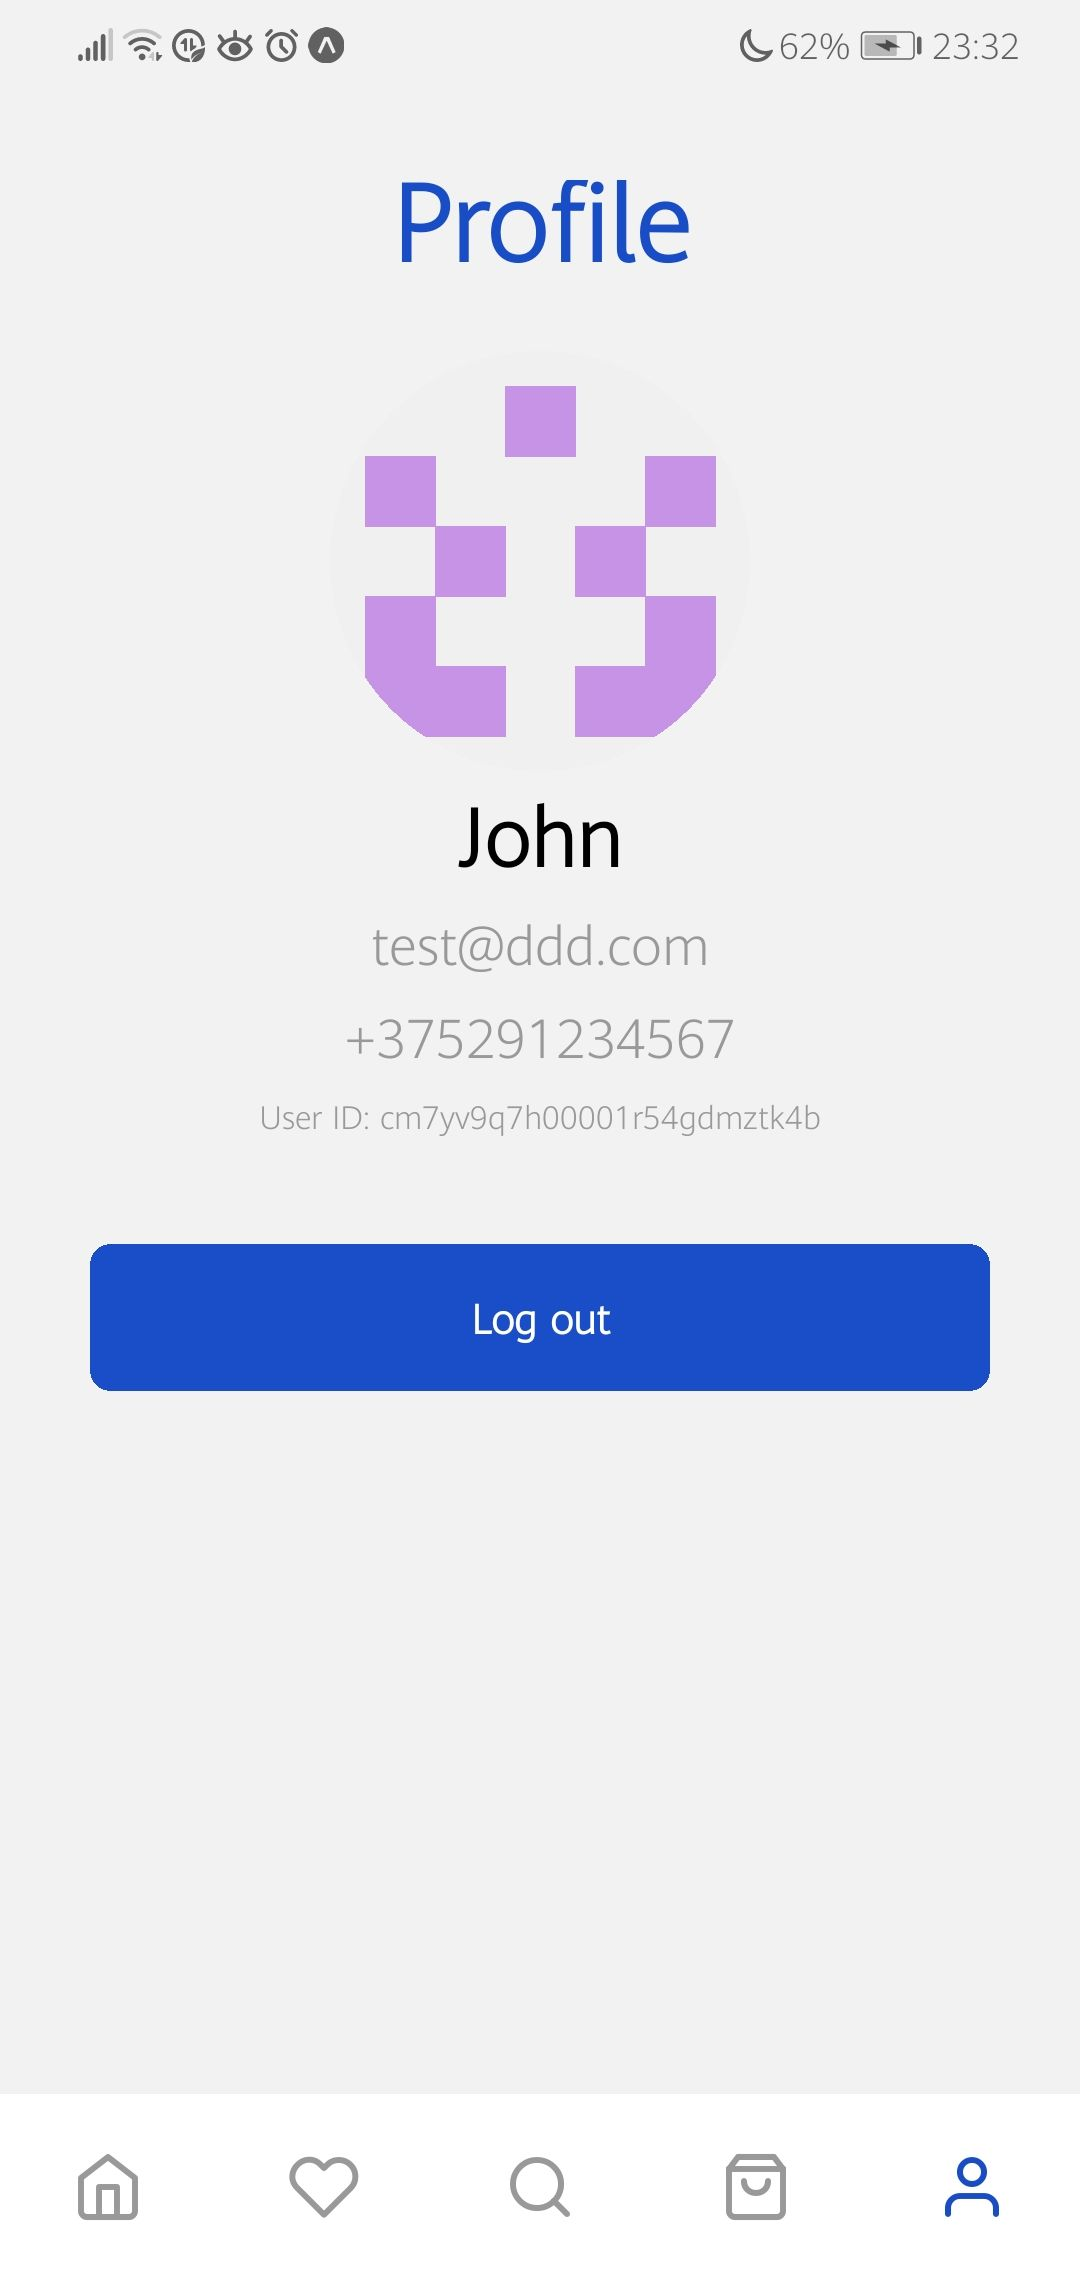
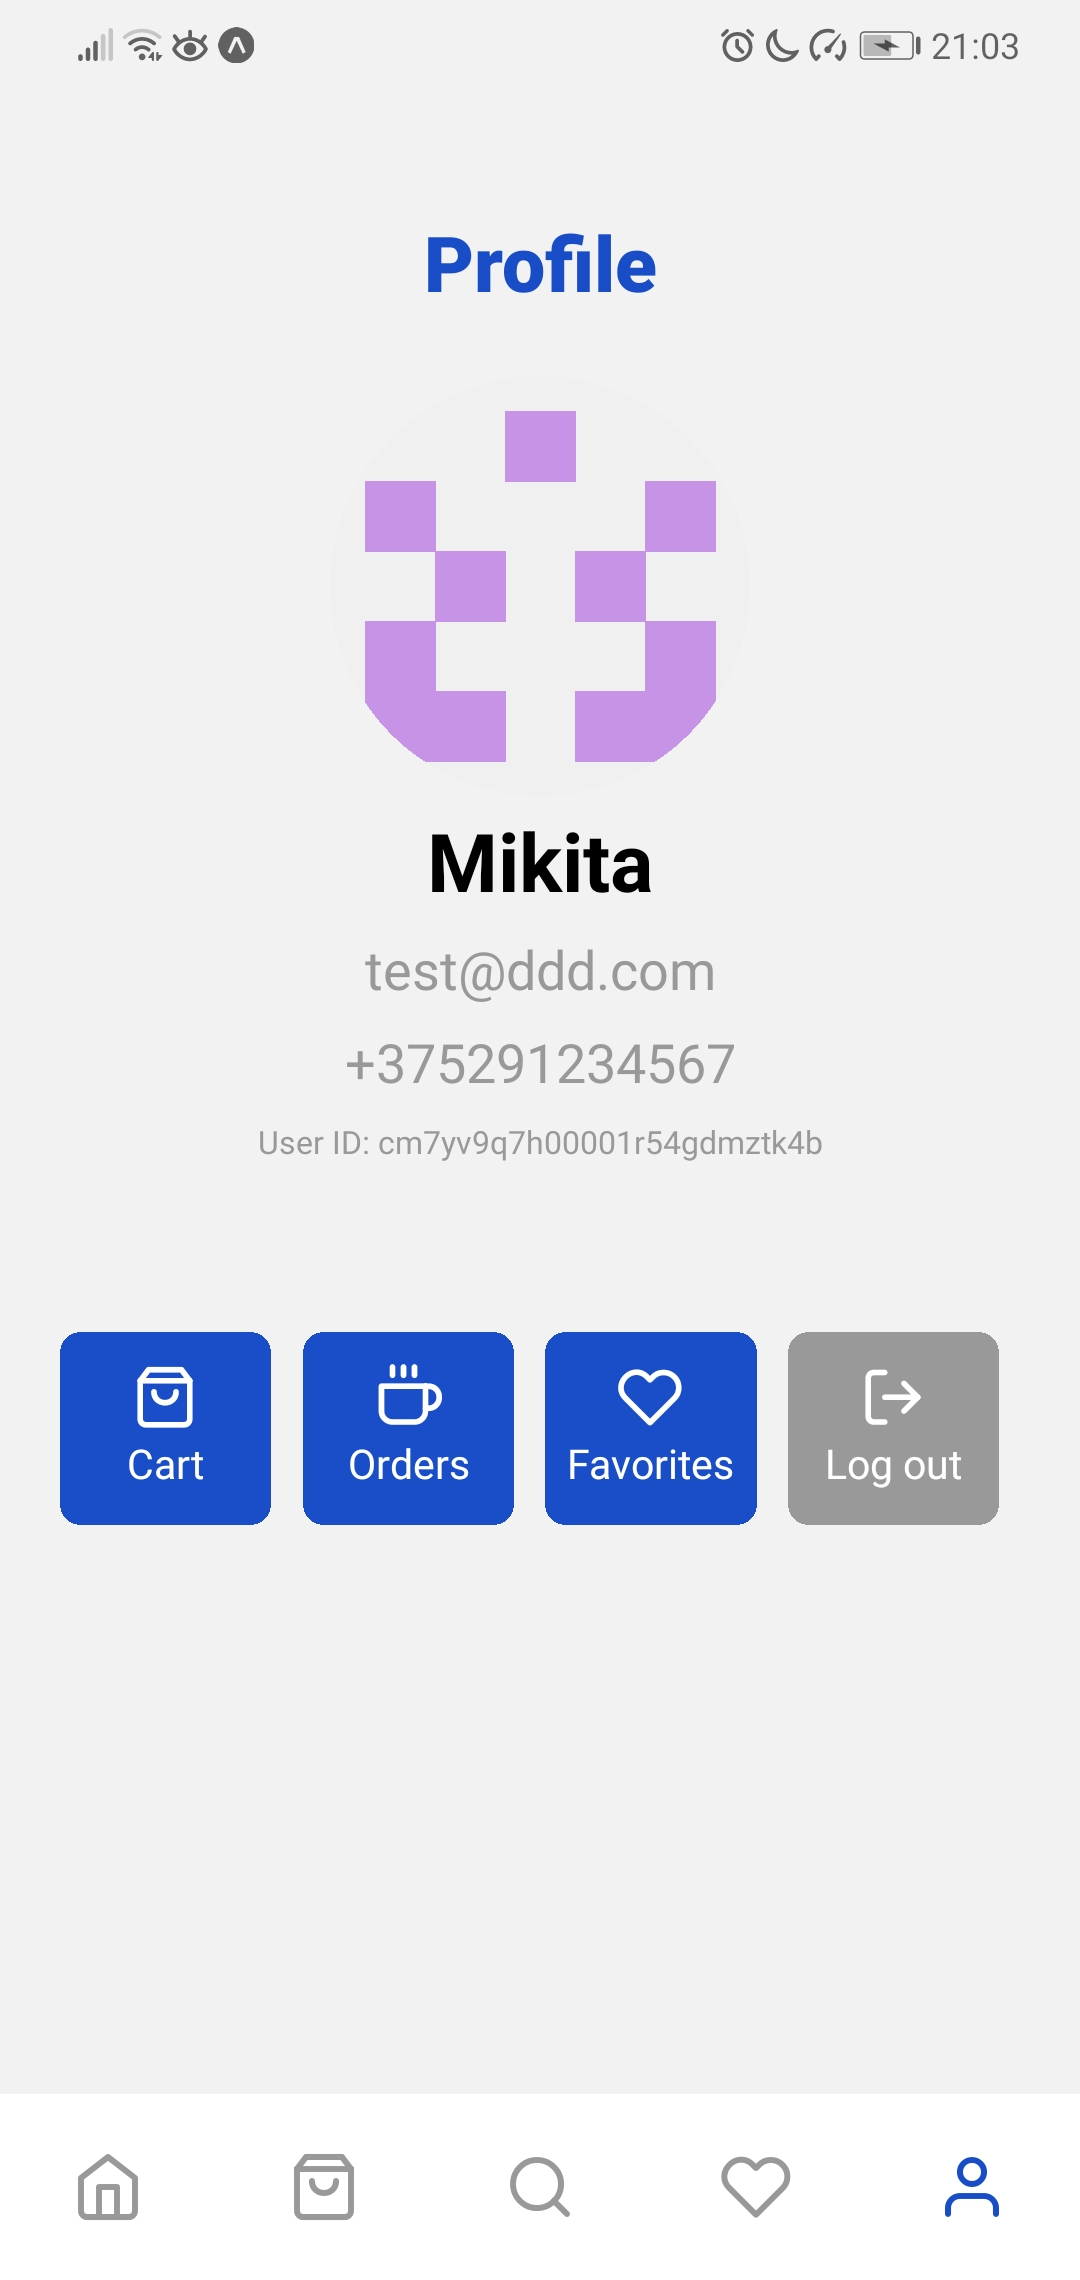
finilize

diff --git a/food-delivery-react-native/food-delivery-client/app/screens/orders/index.tsx b/food-delivery-react-native/food-delivery-client/app/screens/orders/index.tsx
@@ -1,11 +1,59 @@
 import React from 'react';
 import { Container } from '@/components/layout/Container';
 import { Heading } from '@/components/ui/Heading';
+import { useCategory } from '@/features/categories/useCategory';
+import { View, Text } from 'react-native';
+import { LoadingSpinner } from '@/components/ui/LoadingSpinner';
+import { GoBackButton } from '@/components/ui/GoBackButton';
+import { useGetAllOrders } from '@/features/orders/useOrders';
+import type { Order } from '@/types/order.i';
+import { convertPrice } from '@/services/utils';
 
 export const OrdersScreen: React.FC = () => {
+  const { isLoading, orders } = useGetAllOrders();
+
+  if (isLoading) {
+    return (
+      <Container>
+        <GoBackButton size="small" />
+
+        <Heading>Orders</Heading>
+
+        <View className="mt-5">
+          <LoadingSpinner />
+        </View>
+      </Container>
+    );
+  }
+
+  if (!isLoading && (!orders || orders.length === 0) ) {
+    return (
+      <Container>
+        <GoBackButton size="small" />
+        <Heading>Orders</Heading>
+      </Container>
+    );
+  }
+
   return (
     <Container>
+      <GoBackButton size="small" />
+
       <Heading>Orders</Heading>
+
+      <View className="flex flex-col gap-y-1 mt-3">
+        {
+          orders?.map((order: Order) => (
+            <View className="rounded-lg flex flex-row items-center justify-between w-full max-w-full py-2 bg-secondary px-3" key={order.id}>
+              <View>
+                <Text className="text-white font-light text-lg">{new Date(order.createdAt).toLocaleString()}</Text>
+                <Text className="text-white mt-1">Total items: {order.total}</Text>
+                <Text className="text-white font-black">Price: {convertPrice(order.items.reduce((acc, curr) => acc + curr.price * curr.count, 0))}</Text>
+              </View>
+            </View>
+          ))
+        }
+      </View>
     </Container>
   );
 };

diff --git a/food-delivery-react-native/food-delivery-client/app/features/orders/useOrders.ts b/food-delivery-react-native/food-delivery-client/app/features/orders/useOrders.ts
@@ -1,0 +1,11 @@
+import { useQuery } from '@tanstack/react-query';
+import { orderService } from '@/services/order.service';
+
+export const useGetAllOrders = () => {
+  const { data: orders, isLoading } = useQuery({
+    queryKey: ['getOrders'],
+    queryFn: () => orderService.getAll()
+  });
+
+  return { orders, isLoading };
+};

diff --git a/food-delivery-react-native/food-delivery-client/app/screens/auth/components/forms/LoginForm.tsx b/food-delivery-react-native/food-delivery-client/app/screens/auth/components/forms/LoginForm.tsx
@@ -68,7 +68,6 @@ export const LoginForm: React.FC<LoginFormProps> = ({ toggleFormMode }) => {
           Sign in
         </Button>
       </AnimatedNative.View>
-      <Text>{API_URL}</Text>
 
       <FormModeToggler mode="login" onToggle={toggleFormMode} className="mt-4" />
     </View>
